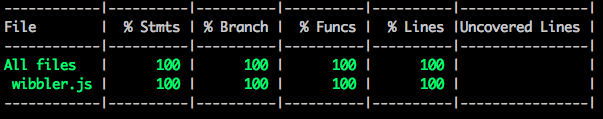
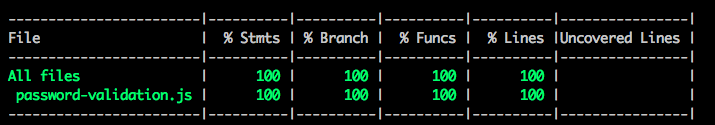
Using password validation as the example

Changed region(s): [[0.0, 0.0, 0.9851, 0.958]]

diff --git a/mutation-testing/index.html b/mutation-testing/index.html
@@ -45,29 +45,28 @@
 				<section><h1>But...</h1></section>
                 <section>
                     <pre><code data-trim data-noescape>
-wibbleIt: function(input) {
-    if (input.length > 0 && input.length < 10) {
-        return input + " wibble";
+validate: function(password) {
+
+    if (password.length > 0 && password.length < 10) {
+        return true;
     }
 
-    return "wibble";
+    return false;
 }
                     </code></pre>
                 </section>
                 <section>
                     <pre><code data-trim data-noescape>
-describe('Wibbling a non-empty string', () => {
-
-    it("returns the input with wibble on the end", () => {
-        assert.equal("a wibble", wibbler.wibbleIt("a"));
-    });
+it('An empty string is not a valid password', function() {
+    assert.equal(
+        passwordValidation.validate(""),
+        false);
 });
 
-describe('Wibbling an empty string', () => {
-
-    it("returns wibble", function() {
-        assert.equal("wibble", wibbler.wibbleIt(""));
-    });
+it('A non-empty string is a valid password', () => {
+    assert.equal(
+        passwordValidation.validate("A"),
+        true);
 });
                     </code></pre>
                 </section>
@@ -98,24 +97,26 @@ describe('Wibbling an empty string', () => {
                 </section>
                 <section data-transition="none">
                     <pre ><code data-trim data-noescape>
-wibbleIt: function(input) {
-    if (input.length > 0 && input.length < 10) {
-        return input + " wibble";
+validate: function(password) {
+
+    if (password.length > 0 && password.length < 10) {
+        return true;
     }
 
-    return "wibble";
+    return false;
 }
                     </code></pre>
 					<h2>The original code</h2>
                 </section>
                 <section data-transition="none">
                     <pre ><code data-trim data-noescape>
-wibbleIt: function(input) {
-    if (input.length > 0 && input.length <mark>&lt;=</mark> 10) {
-        return input + " wibble";
+validate: function(password) {
+
+    if (password.length > 0 && password.length <mark>&lt;=</mark> 10) {
+        return true;
     }
 
-    return "wibble";
+    return false;
 }
                     </code></pre>
 					<h2>The mutated version</h2>

diff --git a/mutation-testing/example-app/test/password-validation_test.js b/mutation-testing/example-app/test/password-validation_test.js
@@ -1,0 +1,24 @@
+var assert = require('assert');
+var passwordValidation = require('../src/password-validation');
+
+describe('Password validation', () => {
+
+    it('An empty string is not a valid password', function() {
+        assert.equal(
+            passwordValidation.validate(""),
+            false);
+    });
+
+    it('A non-empty string is a valid password', () => {
+        assert.equal(
+            passwordValidation.validate("A"),
+            true);
+    });
+
+    // Uncomment this test to kill the mutant!
+    // it('A string of length greater than 10 is not a valid password', () => {
+    //     assert.equal(
+    //         passwordValidation.validate("1234567890"),
+    //         false);
+    // });
+});

diff --git a/mutation-testing/example-app/src/password-validation.js b/mutation-testing/example-app/src/password-validation.js
@@ -1,0 +1,11 @@
+module.exports = {
+
+    validate: function(password) {
+
+        if (password.length > 0 && password.length < 10) {
+            return true;
+        }
+
+        return false;
+    }
+};
